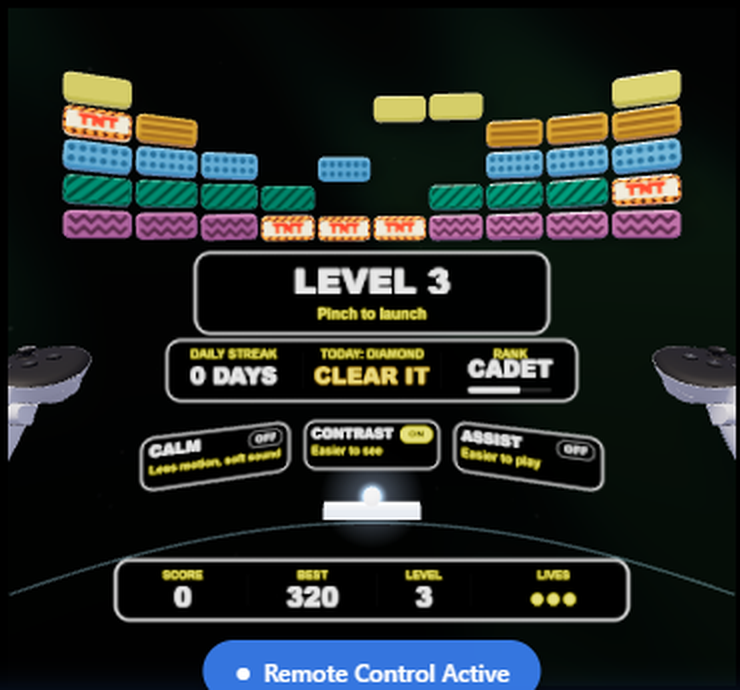
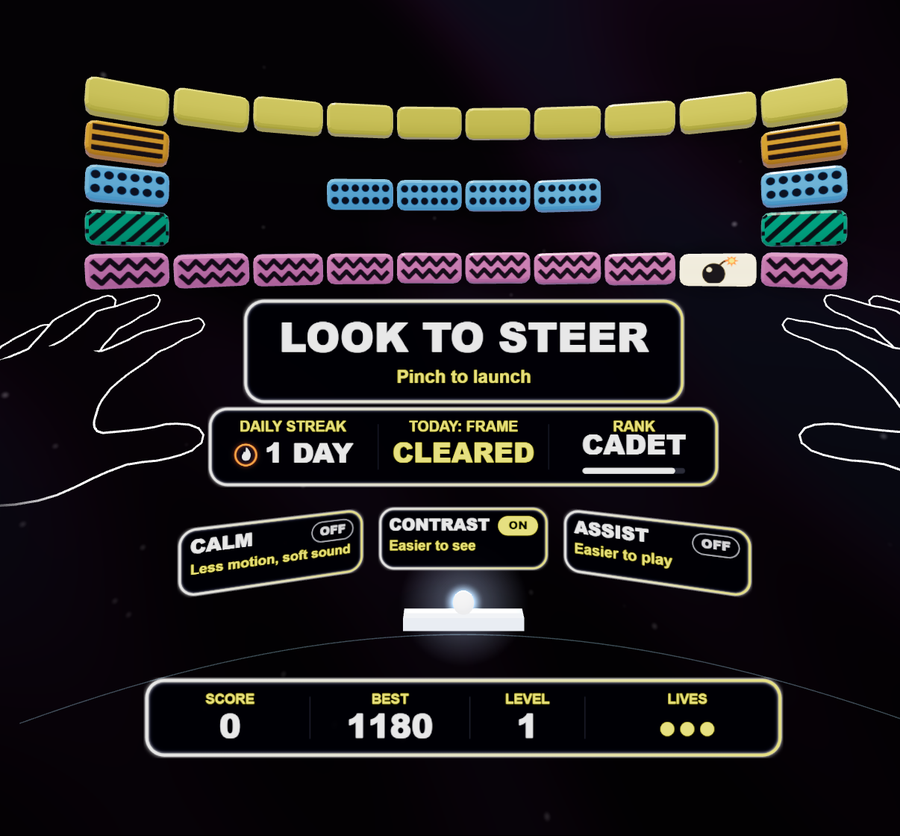
Refresh README screenshots from the current build

diff --git a/README.md b/README.md
@@ -5,11 +5,11 @@ Glasses (and Meta Quest) with the Immersive Web SDK (WebXR). Look to steer, pinc
 plays a note in space, and chaining bricks without touching the paddle climbs a pentatonic scale. So yes,
 you're making music by staring at things.
 
-|                          First screen                           |                       In play (fireball power-up)                        |
+|                          First screen                           |                       In play                        |
 | :-------------------------------------------------------------: | :----------------------------------------------------------------------: |
-| ![First screen: LOOK TO STEER, pinch to launch](docs/start.png) |        ![Playing, with a fireball power-up active](docs/play.png)        |
+| ![First screen: LOOK TO STEER, pinch to launch](docs/start.png) |        ![Playing: the ball in flight over a half-cleared wall](docs/play.png)        |
 |             **Calm mode** (soft sky, ambient sound)             |              **Contrast mode** (patterns, not just colour)               |
-|         ![Calm mode on the sunset world](docs/calm.png)         | ![Contrast mode with a different pattern on each row](docs/contrast.png) |
+|         ![Calm mode: a softer sky and no motion](docs/calm.png)         | ![Contrast mode with a different pattern on each row](docs/contrast.png) |
 
 _Real screenshots from the Immersive Web Emulator (Meta VR Glasses profile)._
 
